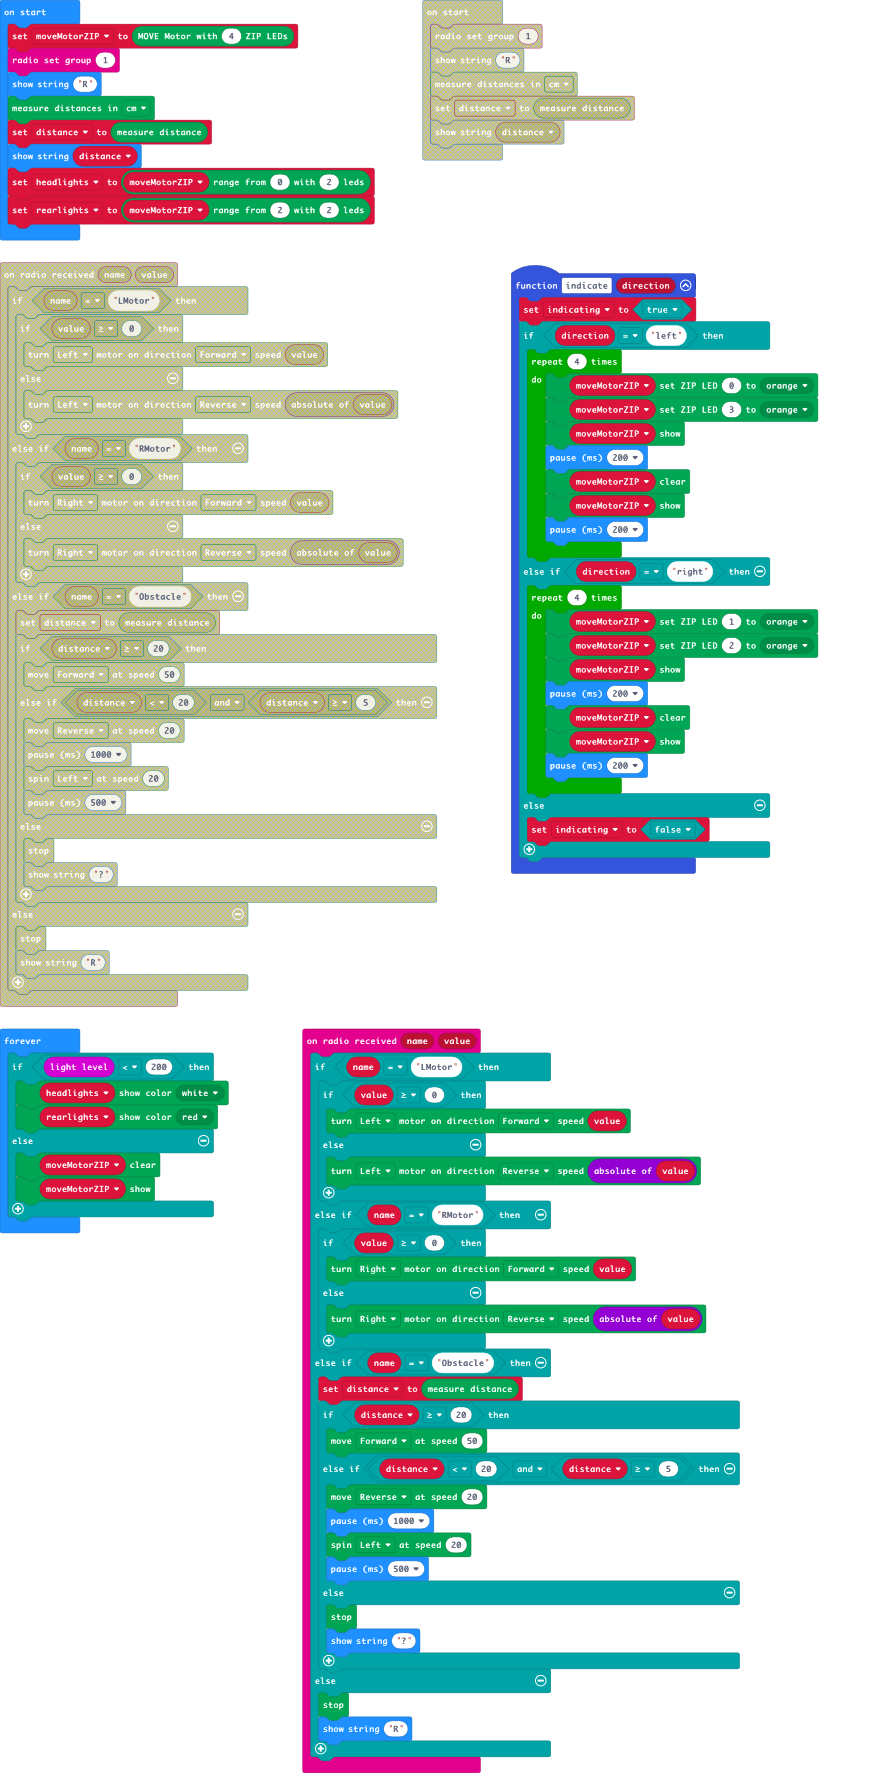
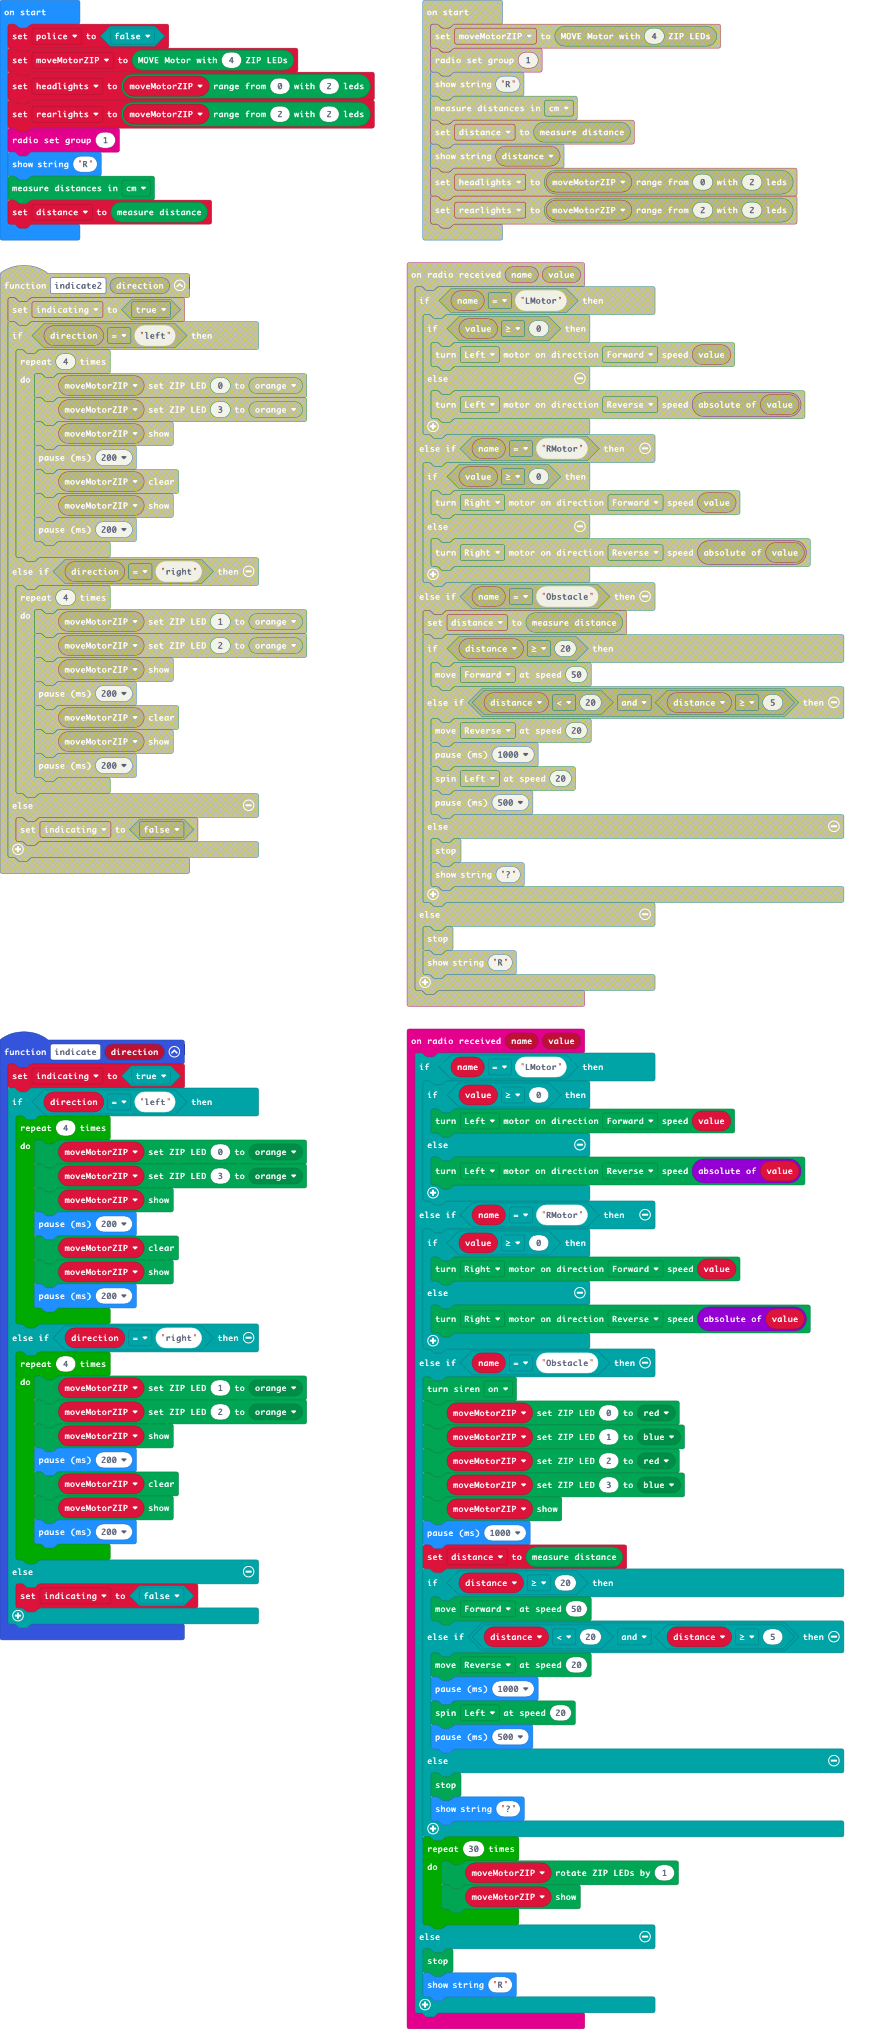
Update main.blocks, main.ts

diff --git a/main.ts b/main.ts
@@ -38,6 +38,13 @@ radio.onReceivedValue(function (name, value) {
             Kitronik_Move_Motor.motorOn(Kitronik_Move_Motor.Motors.MotorRight, Kitronik_Move_Motor.MotorDirection.Reverse, Math.abs(value))
         }
     } else if (name == "Obstacle") {
+        Kitronik_Move_Motor.soundSiren(Kitronik_Move_Motor.OnOffSelection.On)
+        moveMotorZIP.setZipLedColor(0, Kitronik_Move_Motor.colors(Kitronik_Move_Motor.ZipLedColors.Red))
+        moveMotorZIP.setZipLedColor(1, Kitronik_Move_Motor.colors(Kitronik_Move_Motor.ZipLedColors.Blue))
+        moveMotorZIP.setZipLedColor(2, Kitronik_Move_Motor.colors(Kitronik_Move_Motor.ZipLedColors.Red))
+        moveMotorZIP.setZipLedColor(3, Kitronik_Move_Motor.colors(Kitronik_Move_Motor.ZipLedColors.Blue))
+        moveMotorZIP.show()
+        basic.pause(1000)
         distance = Kitronik_Move_Motor.measure()
         if (distance >= 20) {
             Kitronik_Move_Motor.move(Kitronik_Move_Motor.DriveDirections.Forward, 50)
@@ -50,6 +57,10 @@ radio.onReceivedValue(function (name, value) {
             Kitronik_Move_Motor.stop()
             basic.showString("?")
         }
+        for (let index = 0; index < 30; index++) {
+            moveMotorZIP.rotate(1)
+            moveMotorZIP.show()
+        }
     } else {
         Kitronik_Move_Motor.stop()
         basic.showString("R")
@@ -58,14 +69,14 @@ radio.onReceivedValue(function (name, value) {
 let indicating = false
 let distance = 0
 let moveMotorZIP: Kitronik_Move_Motor.MoveMotorZIP = null
+let police = false
 moveMotorZIP = Kitronik_Move_Motor.createMoveMotorZIPLED(4)
+let headlights = moveMotorZIP.range(0, 2)
+let rearlights = moveMotorZIP.range(2, 2)
 radio.setGroup(1)
 basic.showString("R")
 Kitronik_Move_Motor.setUltrasonicUnits(Kitronik_Move_Motor.Units.Centimeters)
 distance = Kitronik_Move_Motor.measure()
-basic.showString("" + (distance))
-let headlights = moveMotorZIP.range(0, 2)
-let rearlights = moveMotorZIP.range(2, 2)
 basic.forever(function () {
     if (input.lightLevel() < 200) {
         headlights.showColor(Kitronik_Move_Motor.colors(Kitronik_Move_Motor.ZipLedColors.White))
